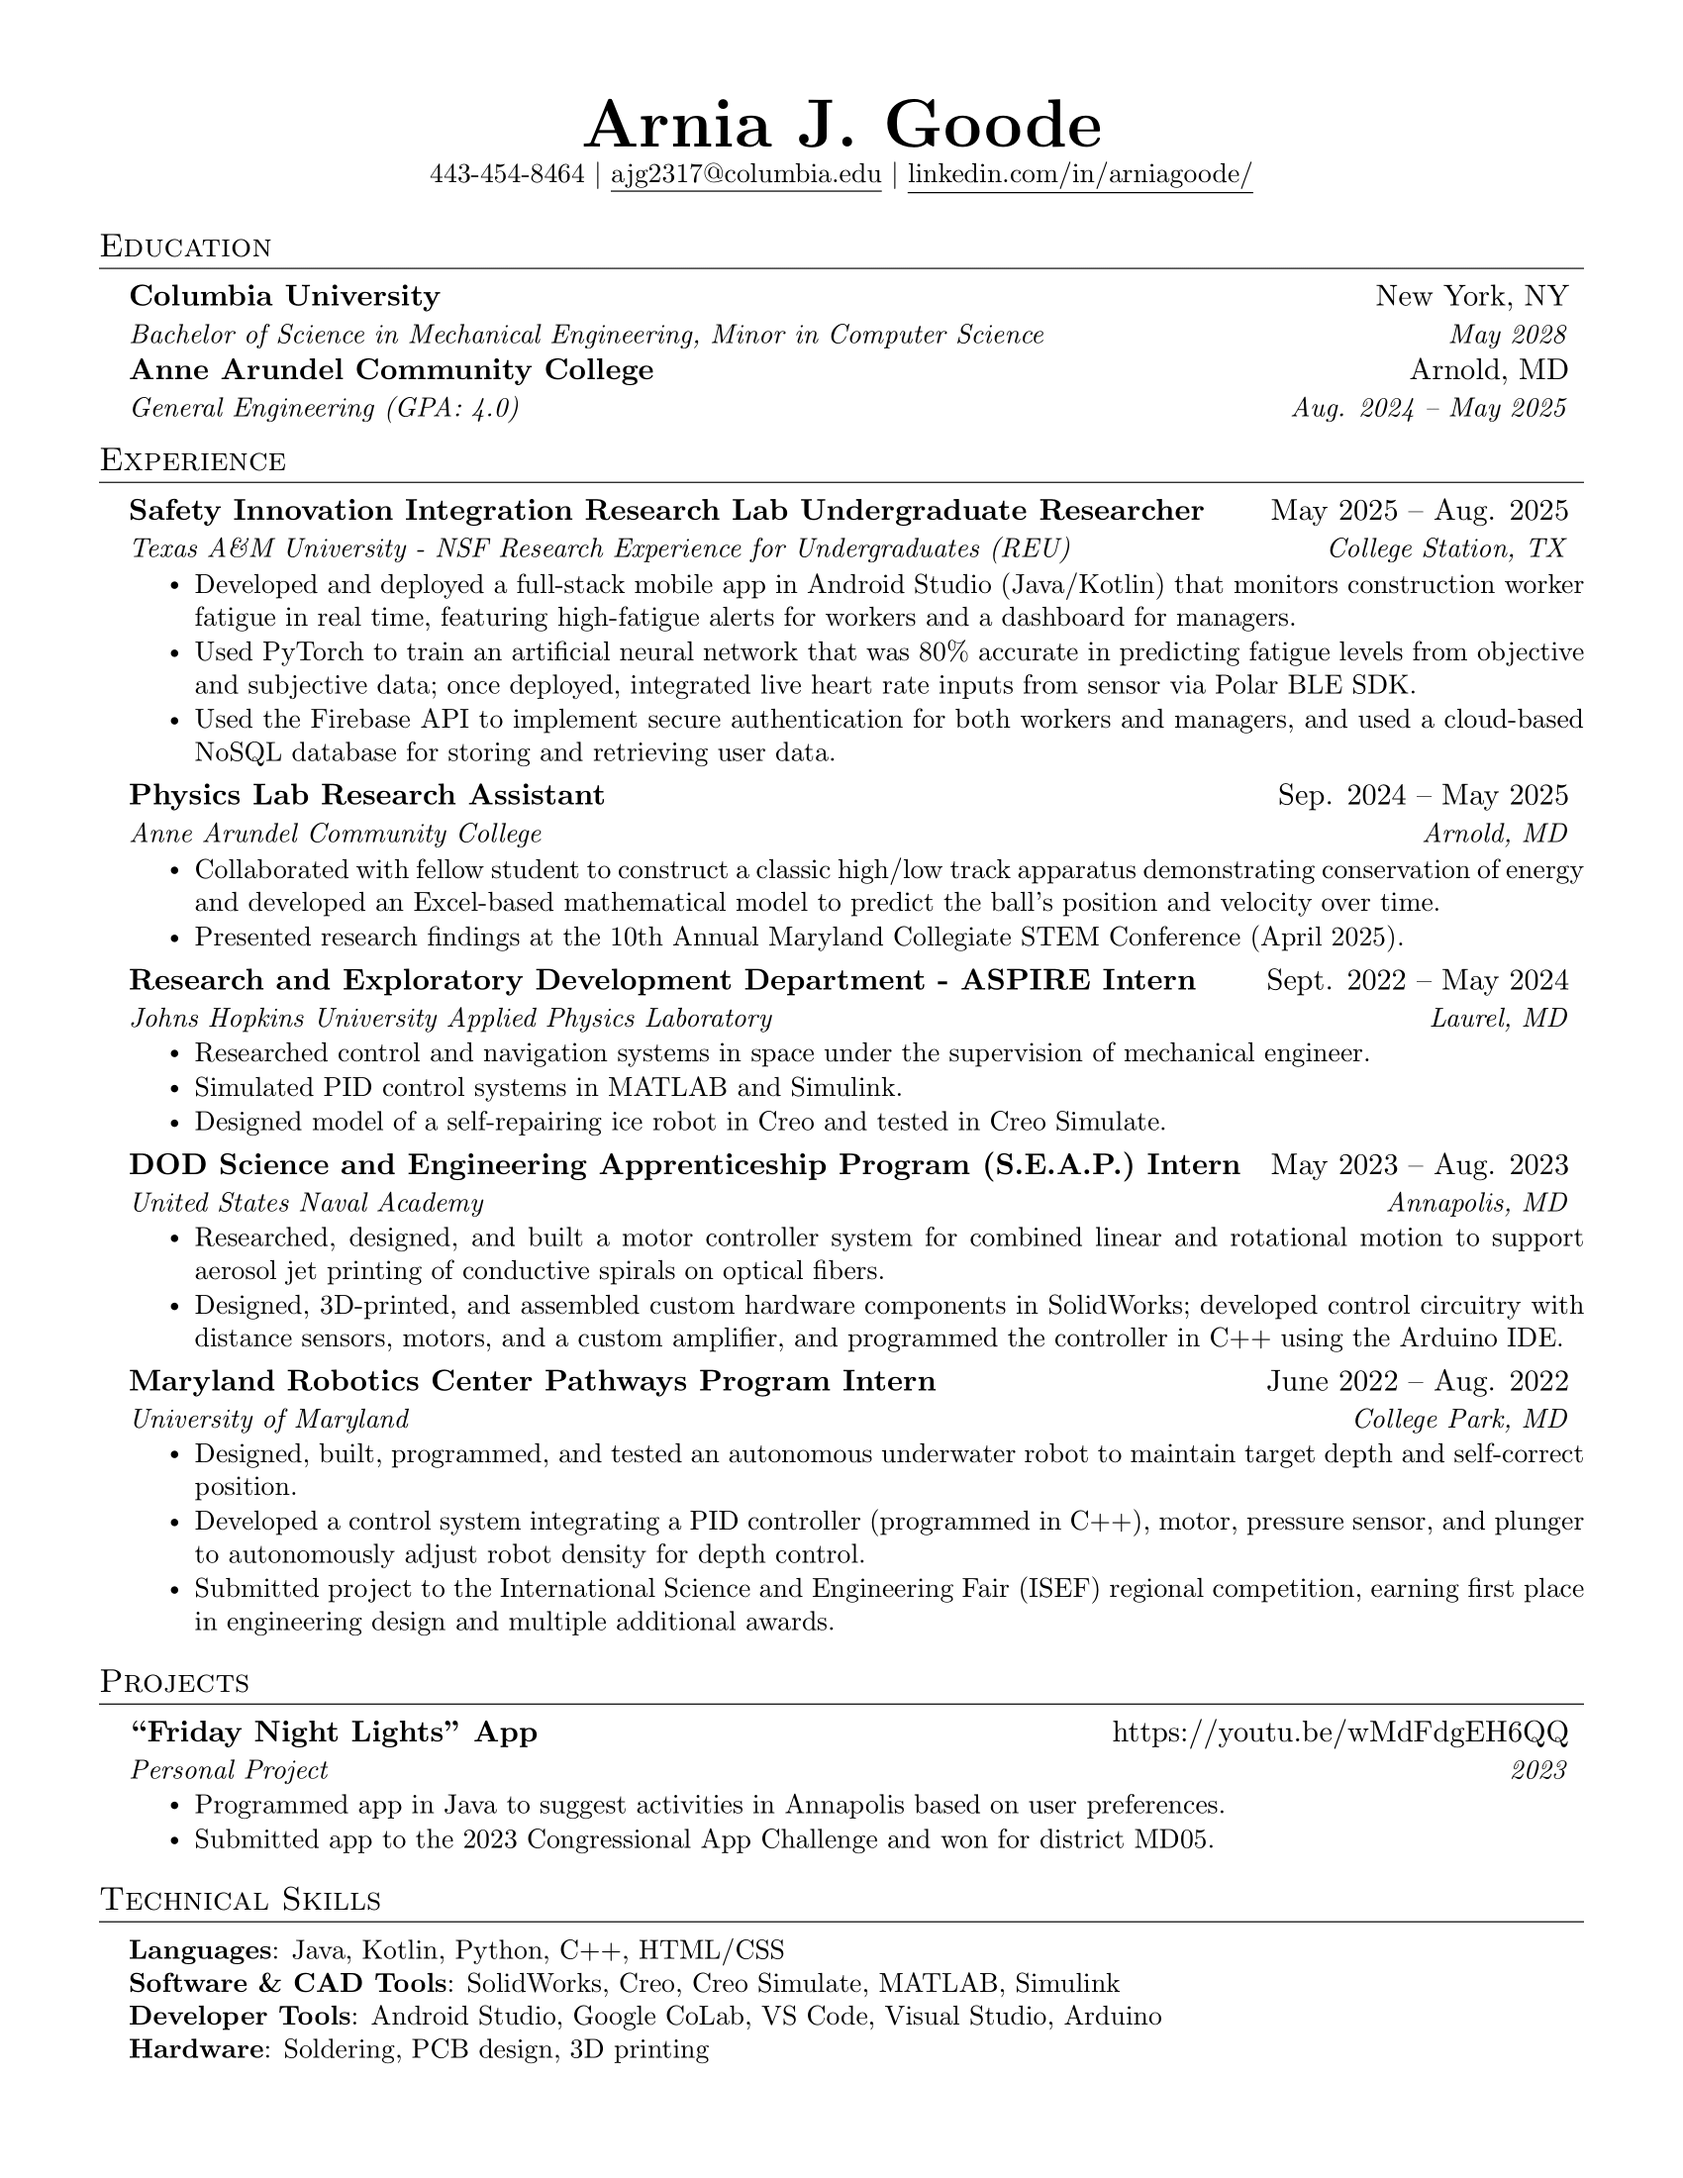
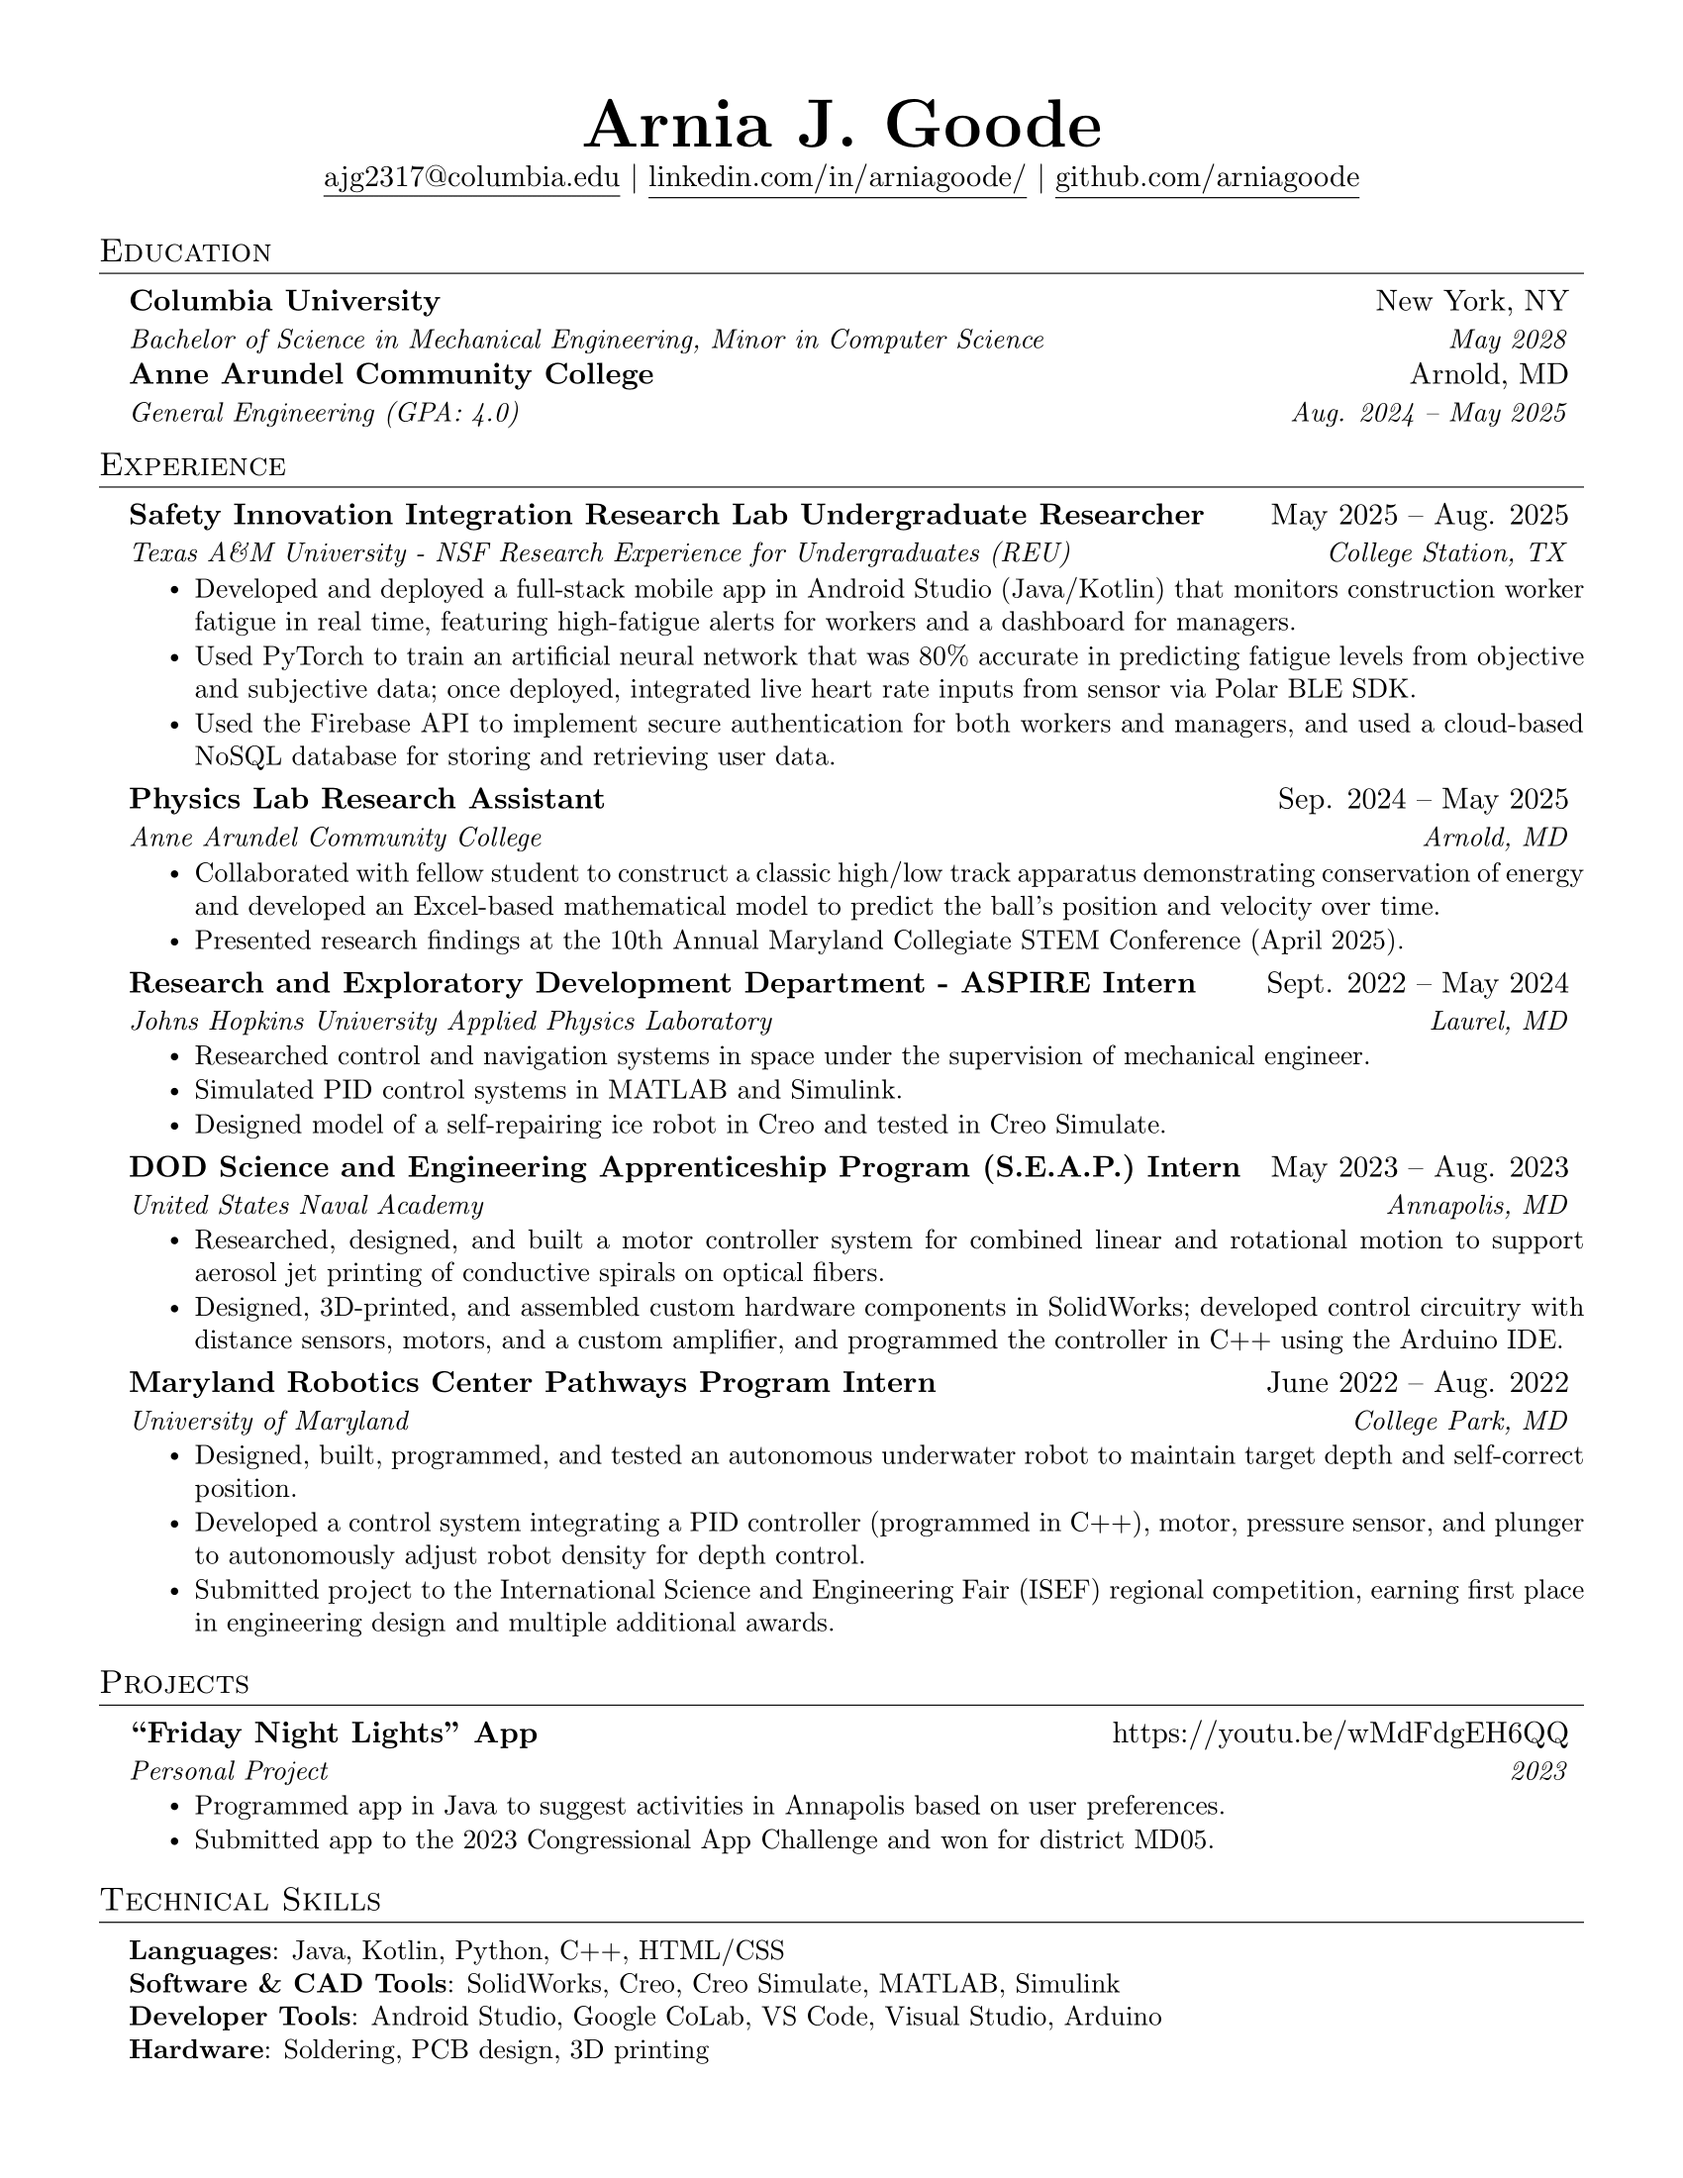
added github link

diff --git a/home.html b/home.html
@@ -13,6 +13,7 @@
   <!-- Links to professional profiles: Linkedin, Github -->
   <div class= "social-links">
     <a href="https://www.linkedin.com/in/arniagoode/" class="fab fa-linkedin"></a>
+    <a href="https://github.com/arniagoode"  class="fab fa-github"></a>
   </div>
 
   <!-- Links to pages in website -->

diff --git a/style.css b/style.css
@@ -84,6 +84,7 @@ nav a {
 }*/
 
 
+
 /* Images style */
 .portfolio-img img{
     display: block; 
